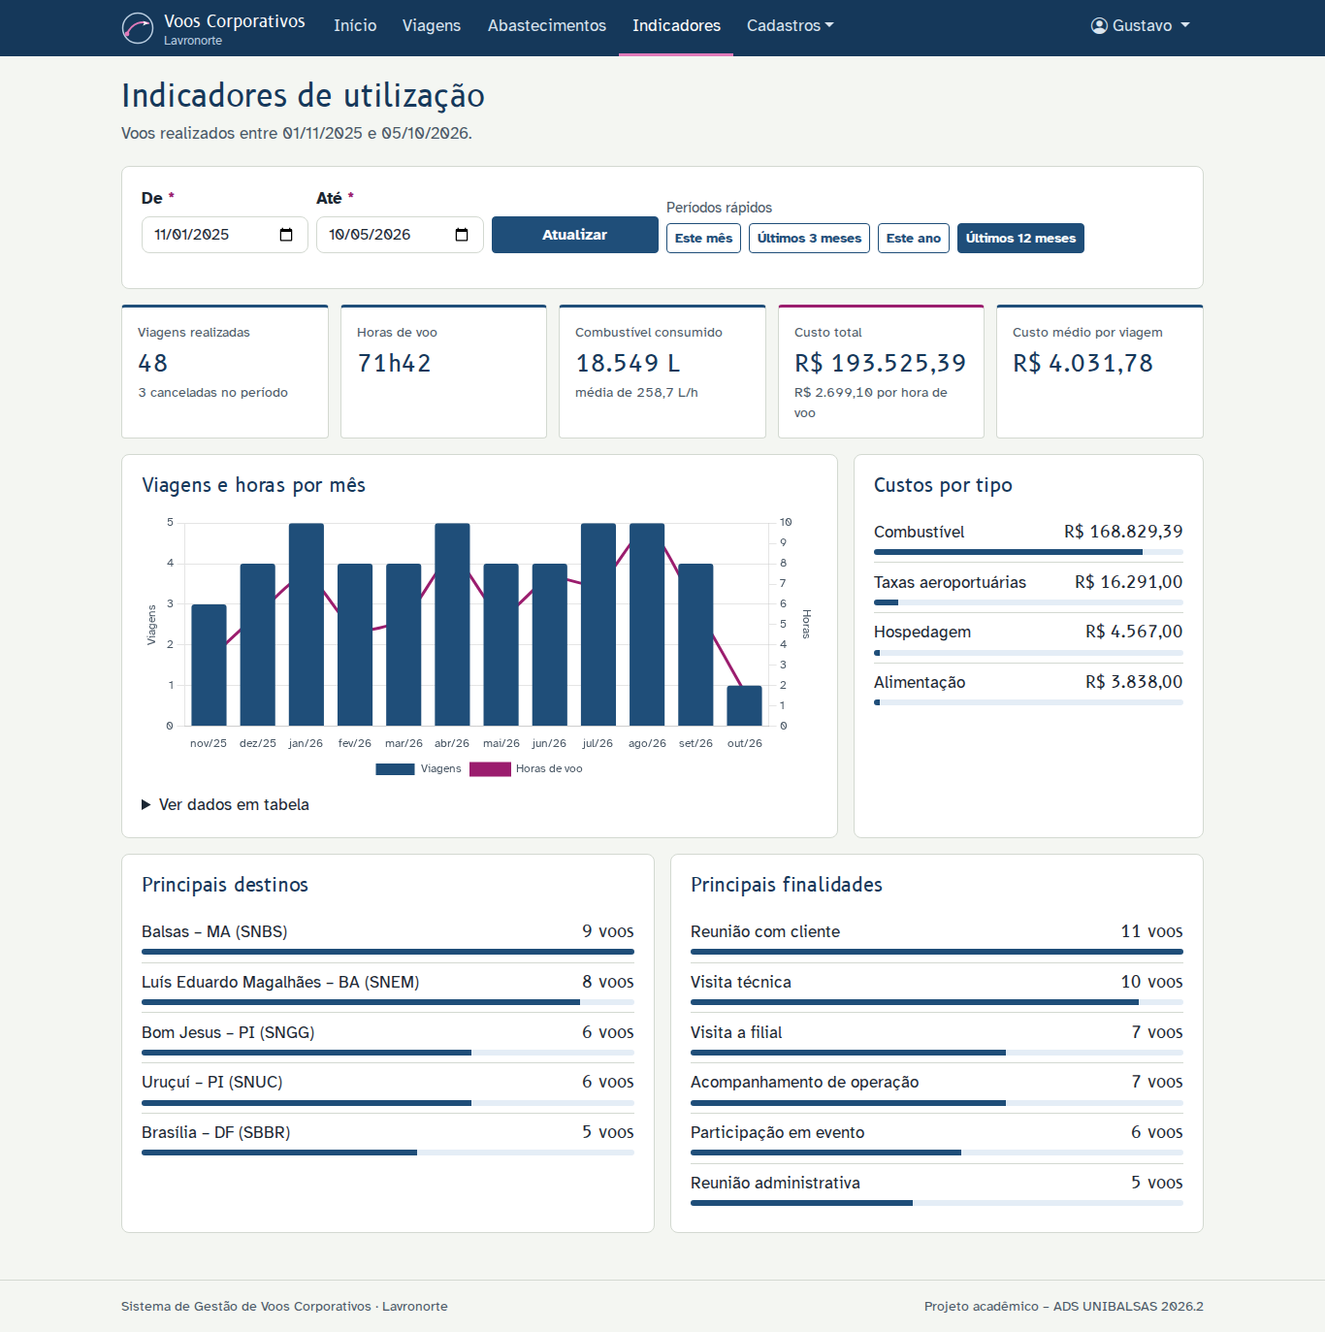
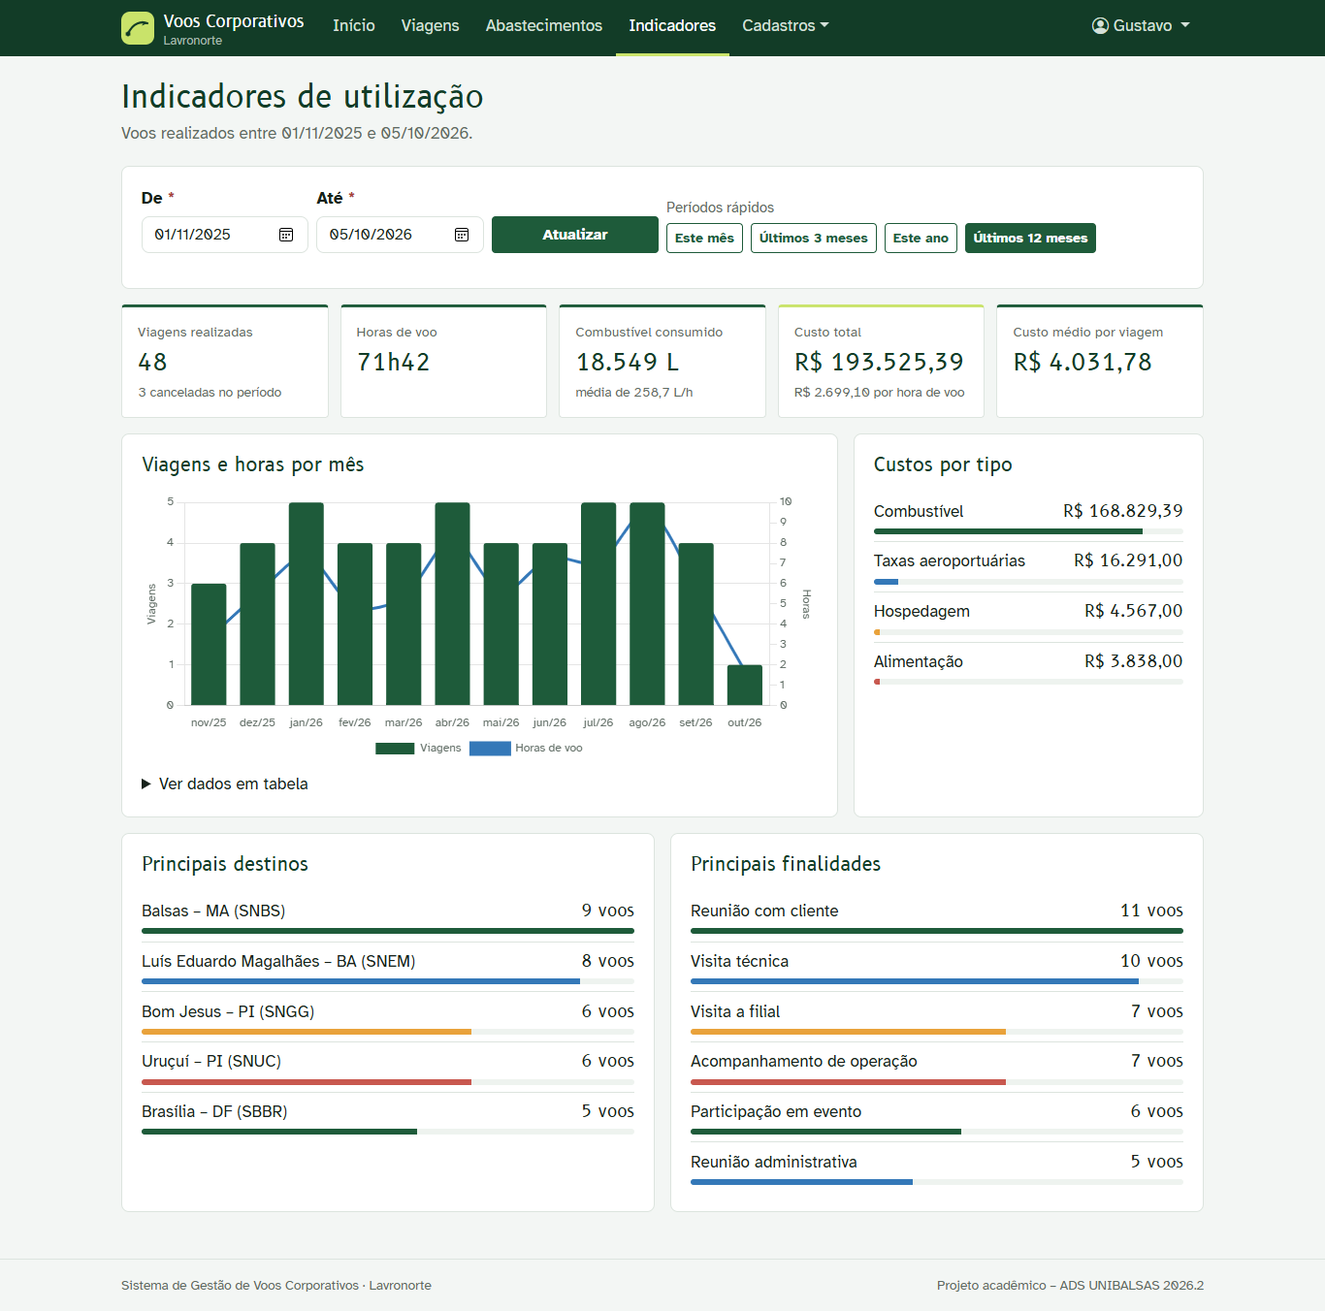
refactor: :lipstick: Mudando as cores da aplicação para a paleta de cores da empresa

diff --git a/static/css/app.css b/static/css/app.css
@@ -1,24 +1,29 @@
 /* =========================================================================
    Gestão de Voos Corporativos – Lavronorte
-   Tokens visuais inspirados nas cartas aeronáuticas (azul e magenta) e nas
-   fontes de legibilidade: B612 (Airbus, displays de cabine) para dados de voo
+   Paleta baseada no protótipo do Figma: verde-escuro (agronegócio) como cor
+   principal e verde-limão como destaque sobre fundos escuros. As cores de
+   texto foram escurecidas onde necessário para manter o contraste WCAG AA.
+   Fontes de legibilidade: B612 (Airbus, displays de cabine) para dados de voo
    e Atkinson Hyperlegible para o texto corrido.
    ========================================================================= */
 :root {
-  --cor-tinta: #1b2733;
-  --cor-tinta-suave: #4a5866;
-  --cor-papel: #f4f6f2;
+  --cor-tinta: #17221b;
+  --cor-tinta-suave: #5e6b63;
+  --cor-papel: #f3f6f4;
   --cor-superficie: #ffffff;
-  --cor-linha: #d3d9d1;
-  --cor-azul-carta: #1f4e79;
-  --cor-azul-escuro: #15385a;
-  --cor-azul-claro: #e4edf6;
-  --cor-magenta: #9b1d6e;
-  --cor-soja: #2f6b2c;
-  --cor-soja-claro: #e5f0e3;
-  --cor-ambar: #8a5300;
-  --cor-ambar-claro: #fbf0dc;
-  --cor-cancelada: #6b7280;
+  --cor-superficie-suave: #eef3ef;
+  --cor-linha: #dce4de;
+
+  --cor-primaria: #1e5b3a;        /* botões, links, agendada */
+  --cor-primaria-escura: #123c27; /* barra superior, títulos */
+  --cor-primaria-clara: #e9efeb;
+  --cor-destaque: #c9e36a;        /* verde-limão: só sobre fundo escuro ou decorativo */
+  --cor-perigo: #a8433b;
+
+  /* Situações: texto (AA), fundo e borda decorativa */
+  --cor-realizada: #2b6499;  --cor-realizada-clara: #eaf1f8; --cor-realizada-borda: #3478b8;
+  --cor-cancelada: #a8433b;  --cor-cancelada-clara: #f9eeed; --cor-cancelada-borda: #c8584f;
+  --cor-ambar: #8a5300;      --cor-ambar-clara: #fdf4e7;     --cor-ambar-borda: #e9a23b;
 
   --fonte-texto: "Atkinson Hyperlegible", "Segoe UI", system-ui, sans-serif;
   --fonte-dados: "B612", "Segoe UI", system-ui, sans-serif;
@@ -32,18 +37,18 @@
   --bs-body-color: var(--cor-tinta);
   --bs-body-bg: var(--cor-papel);
   --bs-border-color: var(--cor-linha);
-  --bs-primary: var(--cor-azul-carta);
-  --bs-primary-rgb: 31, 78, 121;
-  --bs-link-color: var(--cor-azul-carta);
-  --bs-link-color-rgb: 31, 78, 121;
-  --bs-link-hover-color: var(--cor-magenta);
-  --bs-link-hover-color-rgb: 155, 29, 110;
+  --bs-primary: var(--cor-primaria);
+  --bs-primary-rgb: 30, 91, 58;
+  --bs-link-color: var(--cor-primaria);
+  --bs-link-color-rgb: 30, 91, 58;
+  --bs-link-hover-color: var(--cor-primaria-escura);
+  --bs-link-hover-color-rgb: 18, 60, 39;
   --bs-secondary-color: var(--cor-tinta-suave);
   --bs-border-radius: var(--raio-medio);
 }
 
 body { font-size: 1.0625rem; line-height: 1.55; }
-h1, h2, h3, .h2 { font-family: var(--fonte-dados); letter-spacing: -0.01em; color: var(--cor-azul-escuro); }
+h1, h2, h3, .h2 { font-family: var(--fonte-dados); letter-spacing: -0.01em; color: var(--cor-primaria-escura); }
 h1 { font-size: clamp(1.5rem, 1.2rem + 1.2vw, 2rem); }
 h2, .h2 { font-size: 1.25rem; }
 legend.h2 { margin-bottom: 1rem; }
@@ -54,29 +59,30 @@ h3 { font-size: 1.05rem; }
 /* ---------- Acessibilidade ---------- */
 .pular-conteudo {
   position: absolute; left: 1rem; top: -100px; z-index: 2000;
-  background: var(--cor-superficie); color: var(--cor-azul-escuro);
-  padding: .5rem 1rem; border: 2px solid var(--cor-magenta); border-radius: var(--raio-pequeno);
+  background: var(--cor-superficie); color: var(--cor-primaria-escura);
+  padding: .5rem 1rem; border: 2px solid var(--cor-primaria); border-radius: var(--raio-pequeno);
 }
 .pular-conteudo:focus { top: .5rem; }
-:focus-visible { outline: 3px solid var(--cor-magenta) !important; outline-offset: 2px; box-shadow: none !important; }
+:focus-visible { outline: 3px solid var(--cor-primaria) !important; outline-offset: 2px; box-shadow: none !important; }
 .form-control:focus, .form-select:focus, .btn:focus, .form-check-input:focus { box-shadow: none; }
 @media (prefers-reduced-motion: reduce) {
   *, *::before, *::after { transition: none !important; animation: none !important; scroll-behavior: auto !important; }
 }
 
 /* ---------- Barra superior ---------- */
-.barra-topo { background: var(--cor-azul-escuro); }
+.barra-topo { background: var(--cor-primaria-escura); }
 .barra-topo .navbar-brand { font-family: var(--fonte-dados); font-size: 1.05rem; color: #fff; display: flex; gap: .6rem; align-items: center; }
-.barra-topo .navbar-brand small { color: #b9cde0; font-family: var(--fonte-texto); font-size: .8rem; display: block; line-height: 1; }
-.barra-topo .nav-link { color: #d9e4ef; padding: .9rem .85rem !important; border-bottom: 3px solid transparent; }
+.barra-topo .navbar-brand small { color: #a8bbaf; font-family: var(--fonte-texto); font-size: .8rem; display: block; line-height: 1; }
+.barra-topo .nav-link { color: #d5e0d9; padding: .9rem .85rem !important; border-bottom: 3px solid transparent; }
 .barra-topo .nav-link:hover { color: #fff; }
-.barra-topo .nav-link[aria-current="page"] { color: #fff; border-bottom-color: #e07ab9; }
-.barra-topo .navbar-toggler { border-color: #b9cde0; }
+.barra-topo .nav-link[aria-current="page"] { color: #fff; border-bottom-color: var(--cor-destaque); }
+.barra-topo .navbar-toggler { border-color: #a8bbaf; }
+.barra-topo :focus-visible, .tela-login-arte :focus-visible { outline-color: var(--cor-destaque) !important; }
 .barra-topo .navbar-toggler-icon { filter: invert(1); }
 .marca-rota { width: 34px; height: 34px; flex: none; }
 @media (max-width: 991.98px) {
   .barra-topo .nav-link { border-bottom: 0; border-left: 3px solid transparent; padding: .6rem .75rem !important; }
-  .barra-topo .nav-link[aria-current="page"] { border-left-color: #e07ab9; }
+  .barra-topo .nav-link[aria-current="page"] { border-left-color: var(--cor-destaque); }
 }
 
 /* ---------- Estrutura ---------- */
@@ -88,54 +94,58 @@ main { padding-block: 1.5rem 3rem; }
 .bloco + .bloco { margin-top: 1rem; }
 .bloco > h2:first-child { margin-bottom: 1rem; }
 .btn { font-weight: 700; border-radius: var(--raio-pequeno); }
-.btn-primary { --bs-btn-bg: var(--cor-azul-carta); --bs-btn-border-color: var(--cor-azul-carta); --bs-btn-hover-bg: var(--cor-azul-escuro); --bs-btn-hover-border-color: var(--cor-azul-escuro); --bs-btn-active-bg: var(--cor-azul-escuro); }
-.btn-outline-primary { --bs-btn-color: var(--cor-azul-carta); --bs-btn-border-color: var(--cor-azul-carta); --bs-btn-hover-bg: var(--cor-azul-carta); --bs-btn-hover-border-color: var(--cor-azul-carta); }
+.btn-primary { --bs-btn-bg: var(--cor-primaria); --bs-btn-border-color: var(--cor-primaria); --bs-btn-hover-bg: var(--cor-primaria-escura); --bs-btn-hover-border-color: var(--cor-primaria-escura); --bs-btn-active-bg: var(--cor-primaria-escura); }
+.btn-outline-primary { --bs-btn-color: var(--cor-primaria); --bs-btn-border-color: var(--cor-primaria); --bs-btn-hover-bg: var(--cor-primaria); --bs-btn-hover-border-color: var(--cor-primaria); }
 .form-control, .form-select { background-color: var(--cor-superficie); }
+.form-control:focus, .form-select:focus { border-color: var(--cor-primaria); }
+.form-check-input:checked { background-color: var(--cor-primaria); border-color: var(--cor-primaria); }
+.pagination { --bs-pagination-color: var(--cor-primaria); --bs-pagination-hover-color: var(--cor-primaria-escura); --bs-pagination-active-bg: var(--cor-primaria); --bs-pagination-active-border-color: var(--cor-primaria); }
+.dropdown-menu { --bs-dropdown-link-active-bg: var(--cor-primaria); }
 .form-label { font-weight: 700; margin-bottom: .3rem; }
 .form-text { color: var(--cor-tinta-suave); }
-.obrigatorio { color: var(--cor-magenta); }
-.invalid-feedback { color: #a1122a; font-weight: 700; }
-.form-control.is-invalid, .form-select.is-invalid { border-color: #a1122a; }
+.obrigatorio { color: var(--cor-perigo); }
+.invalid-feedback { color: var(--cor-perigo); font-weight: 700; }
+.form-control.is-invalid, .form-select.is-invalid { border-color: var(--cor-perigo); }
 .lista-passageiros { display: grid; grid-template-columns: repeat(auto-fill, minmax(230px, 1fr)); gap: .25rem 1rem; max-height: 260px; overflow-y: auto; padding: .75rem; border: 1px solid var(--cor-linha); border-radius: var(--raio-pequeno); background: var(--cor-superficie); }
 .lista-passageiros label { display: flex; gap: .5rem; align-items: flex-start; padding: .25rem 0; cursor: pointer; }
 .lista-passageiros input { margin-top: .3rem; }
-.lista-passageiros.is-invalid { border-color: #a1122a; }
+.lista-passageiros.is-invalid { border-color: var(--cor-perigo); }
 .contador-passageiros { font-family: var(--fonte-dados); font-size: .9rem; }
 
 /* ---------- Situação da viagem (cor + texto, nunca só cor) ---------- */
 .situacao { display: inline-flex; align-items: center; gap: .35rem; font-size: .85rem; font-weight: 700; padding: .15rem .55rem; border-radius: 999px; border: 1px solid currentColor; white-space: nowrap; }
 .situacao::before { content: ""; width: .5rem; height: .5rem; border-radius: 50%; background: currentColor; }
-.situacao-agendada { color: var(--cor-azul-carta); background: var(--cor-azul-claro); }
-.situacao-realizada { color: var(--cor-soja); background: var(--cor-soja-claro); }
-.situacao-cancelada { color: var(--cor-cancelada); background: #f1f2f3; }
-.situacao-pendente { color: var(--cor-ambar); background: var(--cor-ambar-claro); }
+.situacao-agendada { color: var(--cor-primaria); background: var(--cor-primaria-clara); }
+.situacao-realizada { color: var(--cor-realizada); background: var(--cor-realizada-clara); }
+.situacao-cancelada { color: var(--cor-cancelada); background: var(--cor-cancelada-clara); }
+.situacao-pendente { color: var(--cor-ambar); background: var(--cor-ambar-clara); }
 
 /* ---------- Faixa de voo (inspirada nas fichas de progresso de voo) ---------- */
 .faixas { list-style: none; padding: 0; margin: 0; display: grid; gap: .6rem; }
 .faixa {
-  --cor-borda: var(--cor-azul-carta);
+  --cor-borda: var(--cor-primaria);
   position: relative; display: grid; grid-template-columns: 7.5rem 6.5rem minmax(0, 1fr) 13rem auto;
   align-items: stretch; background: var(--cor-superficie); border: 1px solid var(--cor-linha);
   border-left: 6px solid var(--cor-borda); border-radius: var(--raio-pequeno);
 }
-.faixa[data-situacao="realizada"] { --cor-borda: var(--cor-soja); }
-.faixa[data-situacao="cancelada"] { --cor-borda: var(--cor-cancelada); }
-.faixa[data-situacao="pendente"] { --cor-borda: var(--cor-ambar); }
+.faixa[data-situacao="realizada"] { --cor-borda: var(--cor-realizada-borda); }
+.faixa[data-situacao="cancelada"] { --cor-borda: var(--cor-cancelada-borda); }
+.faixa[data-situacao="pendente"] { --cor-borda: var(--cor-ambar-borda); }
 .faixa > * { padding: .7rem .9rem; }
 .faixa > * + * { border-left: 1px dashed var(--cor-linha); }
-.faixa:hover { border-color: var(--cor-azul-carta); border-left-color: var(--cor-borda); }
+.faixa:hover { border-color: var(--cor-primaria); border-left-color: var(--cor-borda); }
 .faixa-quando { font-family: var(--fonte-dados); font-variant-numeric: tabular-nums; }
-.faixa-quando .hora { font-size: 1.35rem; line-height: 1.1; color: var(--cor-azul-escuro); }
+.faixa-quando .hora { font-size: 1.35rem; line-height: 1.1; color: var(--cor-primaria-escura); }
 .faixa-quando .dia { font-size: .85rem; color: var(--cor-tinta-suave); }
 .faixa-aeronave { font-family: var(--fonte-dados); font-size: .95rem; }
 .faixa-aeronave small { display: block; color: var(--cor-tinta-suave); font-family: var(--fonte-texto); font-size: .8rem; }
 .faixa-rota { display: grid; grid-template-columns: minmax(0, 1fr) minmax(2.5rem, 5rem) minmax(0, 1fr); align-items: center; gap: .6rem; }
 .faixa-rota .ponto { font-family: var(--fonte-dados); font-size: 1rem; overflow-wrap: anywhere; }
 .faixa-rota .ponto:last-child { text-align: right; }
-.faixa-rota .linha { position: relative; height: 2px; background: var(--cor-magenta); }
-.faixa-rota .linha::before, .faixa-rota .linha::after { content: ""; position: absolute; top: -3px; width: 8px; height: 8px; border-radius: 50%; border: 2px solid var(--cor-magenta); background: var(--cor-superficie); }
+.faixa-rota .linha { position: relative; height: 2px; background: var(--cor-primaria); }
+.faixa-rota .linha::before, .faixa-rota .linha::after { content: ""; position: absolute; top: -3px; width: 8px; height: 8px; border-radius: 50%; border: 2px solid var(--cor-primaria); background: var(--cor-superficie); }
 .faixa-rota .linha::before { left: -4px; }
-.faixa-rota .linha::after { right: -4px; background: var(--cor-magenta); }
+.faixa-rota .linha::after { right: -4px; background: var(--cor-destaque); }
 .faixa[data-situacao="cancelada"] .faixa-rota .linha { background: repeating-linear-gradient(90deg, var(--cor-cancelada) 0 6px, transparent 6px 10px); }
 .faixa[data-situacao="cancelada"] .faixa-rota .ponto { text-decoration: line-through; color: var(--cor-tinta-suave); }
 .faixa-motivo { font-size: .9rem; }
@@ -162,17 +172,20 @@ main { padding-block: 1.5rem 3rem; }
 /* ---------- Indicadores ---------- */
 .indicadores { display: grid; grid-template-columns: repeat(auto-fit, minmax(190px, 1fr)); gap: .75rem; margin: 0 0 1rem; }
 .indicadores-compactos { grid-template-columns: repeat(auto-fit, minmax(140px, 1fr)); }
-.indicador { background: var(--cor-superficie); border: 1px solid var(--cor-linha); border-top: 3px solid var(--cor-azul-carta); border-radius: var(--raio-pequeno); padding: .9rem 1rem; }
+.indicador { background: var(--cor-superficie); border: 1px solid var(--cor-linha); border-top: 3px solid var(--cor-primaria); border-radius: var(--raio-pequeno); padding: .9rem 1rem; }
 .indicador dt { font-weight: 400; color: var(--cor-tinta-suave); font-size: .9rem; }
-.indicador dd { margin: .2rem 0 0; font-family: var(--fonte-dados); font-size: clamp(1.25rem, 1rem + .6vw, 1.5rem); color: var(--cor-azul-escuro); font-variant-numeric: tabular-nums; }
+.indicador dd { margin: .2rem 0 0; font-family: var(--fonte-dados); font-size: clamp(1.25rem, 1rem + .6vw, 1.5rem); color: var(--cor-primaria-escura); font-variant-numeric: tabular-nums; }
 .indicador dd small { font-family: var(--fonte-texto); font-size: .85rem; color: var(--cor-tinta-suave); display: block; }
-.indicador-destaque { border-top-color: var(--cor-magenta); }
+.indicador-destaque { border-top-color: var(--cor-destaque); }
 .grafico { position: relative; height: 280px; }
 .ranking { list-style: none; padding: 0; margin: 0; }
 .ranking li { display: grid; grid-template-columns: minmax(0, 1fr) auto; gap: .25rem .75rem; padding: .45rem 0; border-bottom: 1px solid var(--cor-linha); }
 .ranking li:last-child { border-bottom: 0; }
-.ranking .barra { grid-column: 1 / -1; height: 6px; background: var(--cor-azul-claro); border-radius: 3px; overflow: hidden; }
-.ranking .barra span { display: block; height: 100%; background: var(--cor-azul-carta); }
+.ranking .barra { grid-column: 1 / -1; height: 6px; background: var(--cor-superficie-suave); border-radius: 3px; overflow: hidden; }
+.ranking .barra span { display: block; height: 100%; background: var(--cor-primaria); }
+.ranking li:nth-child(4n+2) .barra span { background: var(--cor-realizada-borda); }
+.ranking li:nth-child(4n+3) .barra span { background: var(--cor-ambar-borda); }
+.ranking li:nth-child(4n+4) .barra span { background: var(--cor-cancelada-borda); }
 
 /* ---------- Tabelas ---------- */
 .table { --bs-table-bg: var(--cor-superficie); margin-bottom: 0; }
@@ -182,21 +195,21 @@ caption { caption-side: top; color: var(--cor-tinta-suave); padding-top: 0; }
 
 /* ---------- Detalhe da viagem ---------- */
 .rota-grande { display: grid; grid-template-columns: minmax(0, 1fr) minmax(3rem, 8rem) minmax(0, 1fr); gap: 1rem; align-items: center; margin: .5rem 0 1rem; }
-.rota-grande .ponto { font-family: var(--fonte-dados); font-size: clamp(1.1rem, .9rem + 1vw, 1.6rem); color: var(--cor-azul-escuro); overflow-wrap: anywhere; }
+.rota-grande .ponto { font-family: var(--fonte-dados); font-size: clamp(1.1rem, .9rem + 1vw, 1.6rem); color: var(--cor-primaria-escura); overflow-wrap: anywhere; }
 .rota-grande .ponto small { display: block; font-family: var(--fonte-texto); font-size: .85rem; color: var(--cor-tinta-suave); }
 .rota-grande .ponto:last-child { text-align: right; }
-.rota-grande .linha { height: 2px; background: var(--cor-magenta); position: relative; }
-.rota-grande .linha svg { position: absolute; left: 50%; top: 50%; transform: translate(-50%, -50%); background: var(--cor-superficie); padding: 0 .25rem; }
+.rota-grande .linha { height: 2px; background: var(--cor-primaria); position: relative; }
+.rota-grande .linha svg { color: var(--cor-primaria); position: absolute; left: 50%; top: 50%; transform: translate(-50%, -50%); background: var(--cor-superficie); padding: 0 .25rem; }
 .ficha { display: grid; grid-template-columns: repeat(auto-fit, minmax(160px, 1fr)); gap: .75rem 1.5rem; margin: 0; }
 .ficha dt { font-size: .85rem; color: var(--cor-tinta-suave); font-weight: 400; }
 .ficha dd { margin: 0; font-weight: 700; }
-.total-viagem { font-family: var(--fonte-dados); font-size: 1.4rem; color: var(--cor-azul-escuro); }
+.total-viagem { font-family: var(--fonte-dados); font-size: 1.4rem; color: var(--cor-primaria-escura); }
 
 /* ---------- Login ---------- */
-.tela-login { min-height: 100vh; display: grid; grid-template-columns: minmax(0, 1.1fr) minmax(320px, 1fr); }
-.tela-login-arte { background: var(--cor-azul-escuro); color: #e8eff6; padding: 3rem; display: flex; flex-direction: column; justify-content: space-between; overflow: hidden; position: relative; }
+.tela-login { padding-block: 0; min-height: 100vh; display: grid; grid-template-columns: minmax(0, 1.1fr) minmax(320px, 1fr); }
+.tela-login-arte { background: var(--cor-primaria-escura); color: #d5e0d9; padding: 3rem; display: flex; flex-direction: column; justify-content: space-between; overflow: hidden; position: relative; }
 .tela-login-arte h1 { color: #fff; font-size: clamp(1.6rem, 1.2rem + 1.5vw, 2.4rem); max-width: 18ch; }
-.tela-login-arte p { max-width: 42ch; color: #c7d6e4; }
+.tela-login-arte p { max-width: 42ch; color: #d5e0d9; }
 .tela-login-arte svg.carta { position: absolute; inset: auto -10% -5% -10%; width: 120%; opacity: .9; pointer-events: none; }
 .tela-login-form { display: flex; align-items: center; justify-content: center; padding: 2rem 1.25rem; }
 .tela-login-form .bloco { width: 100%; max-width: 400px; }
@@ -209,10 +222,10 @@ caption { caption-side: top; color: var(--cor-tinta-suave); padding-top: 0; }
 /* ---------- Filtros e abas ---------- */
 .abas { display: flex; gap: .25rem; border-bottom: 2px solid var(--cor-linha); margin-bottom: 1rem; overflow-x: auto; }
 .abas a { padding: .55rem 1rem; text-decoration: none; color: var(--cor-tinta-suave); font-weight: 700; border-bottom: 3px solid transparent; margin-bottom: -2px; white-space: nowrap; }
-.abas a[aria-current="page"] { color: var(--cor-azul-escuro); border-bottom-color: var(--cor-magenta); }
-.abas .contagem { font-family: var(--fonte-dados); font-size: .8rem; background: var(--cor-ambar-claro); color: var(--cor-ambar); border-radius: 999px; padding: 0 .45rem; margin-left: .25rem; }
+.abas a[aria-current="page"] { color: var(--cor-primaria-escura); border-bottom-color: var(--cor-primaria); }
+.abas .contagem { font-family: var(--fonte-dados); font-size: .8rem; background: var(--cor-ambar-clara); color: var(--cor-ambar); border-radius: 999px; padding: 0 .45rem; margin-left: .25rem; }
 .vazio { text-align: center; padding: 2.5rem 1rem; color: var(--cor-tinta-suave); }
 .vazio svg { color: var(--cor-linha); margin-bottom: .75rem; }
 
 .rodape { font-size: .85rem; color: var(--cor-tinta-suave); border-top: 1px solid var(--cor-linha); padding-block: 1rem; }
-.btn-outline-primary[aria-current="true"] { background: var(--cor-azul-carta); color: #fff; }
+.btn-outline-primary[aria-current="true"] { background: var(--cor-primaria); color: #fff; }

diff --git a/templates/contas/login.html b/templates/contas/login.html
@@ -9,14 +9,14 @@
       <p>Registre cada voo com a finalidade, acompanhe os abastecimentos e consulte o histórico de uso sem procurar em planilhas e mensagens.</p>
     </div>
     <svg class="carta" viewBox="0 0 800 300" aria-hidden="true" focusable="false">
-      <g fill="none" stroke="#2c5a86" stroke-width="1">
+      <g fill="none" stroke="#2a6b47" stroke-width="1">
         <path d="M0 220 Q 200 160 400 210 T 800 180"/><path d="M0 250 Q 220 200 420 240 T 800 215"/>
         <path d="M0 280 Q 240 240 440 270 T 800 250"/>
         <circle cx="560" cy="120" r="70"/><circle cx="560" cy="120" r="45"/>
       </g>
-      <path d="M90 230 C 260 90, 420 80, 560 120" fill="none" stroke="#e07ab9" stroke-width="2.5" stroke-dasharray="2 0"/>
-      <circle cx="90" cy="230" r="6" fill="#e07ab9"/><circle cx="560" cy="120" r="6" fill="#fff"/>
-      <text x="100" y="258" fill="#b9cde0" font-family="B612, sans-serif" font-size="14">SNBS</text>
+      <path d="M90 230 C 260 90, 420 80, 560 120" fill="none" stroke="#c9e36a" stroke-width="2.5" stroke-dasharray="2 0"/>
+      <circle cx="90" cy="230" r="6" fill="#c9e36a"/><circle cx="560" cy="120" r="6" fill="#fff"/>
+      <text x="100" y="258" fill="#a8bbaf" font-family="B612, sans-serif" font-size="14">SNBS</text>
       <text x="575" y="116" fill="#fff" font-family="B612, sans-serif" font-size="14">SBPJ</text>
     </svg>
   </section>

diff --git a/templates/painel/dashboard.html b/templates/painel/dashboard.html
@@ -92,13 +92,13 @@
   if (!window.Chart || !canvas) return;
   const reduzir = window.matchMedia("(prefers-reduced-motion: reduce)").matches;
   Chart.defaults.font.family = "'Atkinson Hyperlegible', system-ui, sans-serif";
-  Chart.defaults.color = "#4a5866";
+  Chart.defaults.color = "#5e6b63";
   new Chart(canvas, {
     data: {
       labels: dados.meses,
       datasets: [
-        { type: "bar", label: "Viagens", data: dados.voos, backgroundColor: "#1f4e79", borderRadius: 3, yAxisID: "y" },
-        { type: "line", label: "Horas de voo", data: dados.horas, borderColor: "#9b1d6e", backgroundColor: "#9b1d6e",
+        { type: "bar", label: "Viagens", data: dados.voos, backgroundColor: "#1e5b3a", borderRadius: 3, yAxisID: "y" },
+        { type: "line", label: "Horas de voo", data: dados.horas, borderColor: "#3478b8", backgroundColor: "#3478b8",
           pointStyle: "rectRot", pointRadius: 4, tension: 0.25, yAxisID: "y1" },
       ],
     },

diff --git a/templates/viagens/viagem_detalhe.html b/templates/viagens/viagem_detalhe.html
@@ -30,7 +30,7 @@
       <h2 id="t-rota" class="visually-hidden">Rota e dados do voo</h2>
       <div class="rota-grande">
         <div class="ponto"><small>Origem</small>{{ viagem.origem }}</div>
-        <div class="linha" aria-hidden="true"><svg width="28" height="28" viewBox="0 0 24 24"><path fill="#9b1d6e" d="M21 16v-2l-8-5V3.5a1.5 1.5 0 0 0-3 0V9l-8 5v2l8-2.5V19l-2 1.5V22l3.5-1 3.5 1v-1.5L13 19v-5.5z" transform="rotate(90 12 12)"/></svg></div>
+        <div class="linha" aria-hidden="true"><svg width="28" height="28" viewBox="0 0 24 24"><path fill="currentColor" d="M21 16v-2l-8-5V3.5a1.5 1.5 0 0 0-3 0V9l-8 5v2l8-2.5V19l-2 1.5V22l3.5-1 3.5 1v-1.5L13 19v-5.5z" transform="rotate(90 12 12)"/></svg></div>
         <div class="ponto"><small>Destino</small>{{ viagem.destino }}</div>
       </div>
       <dl class="ficha">
